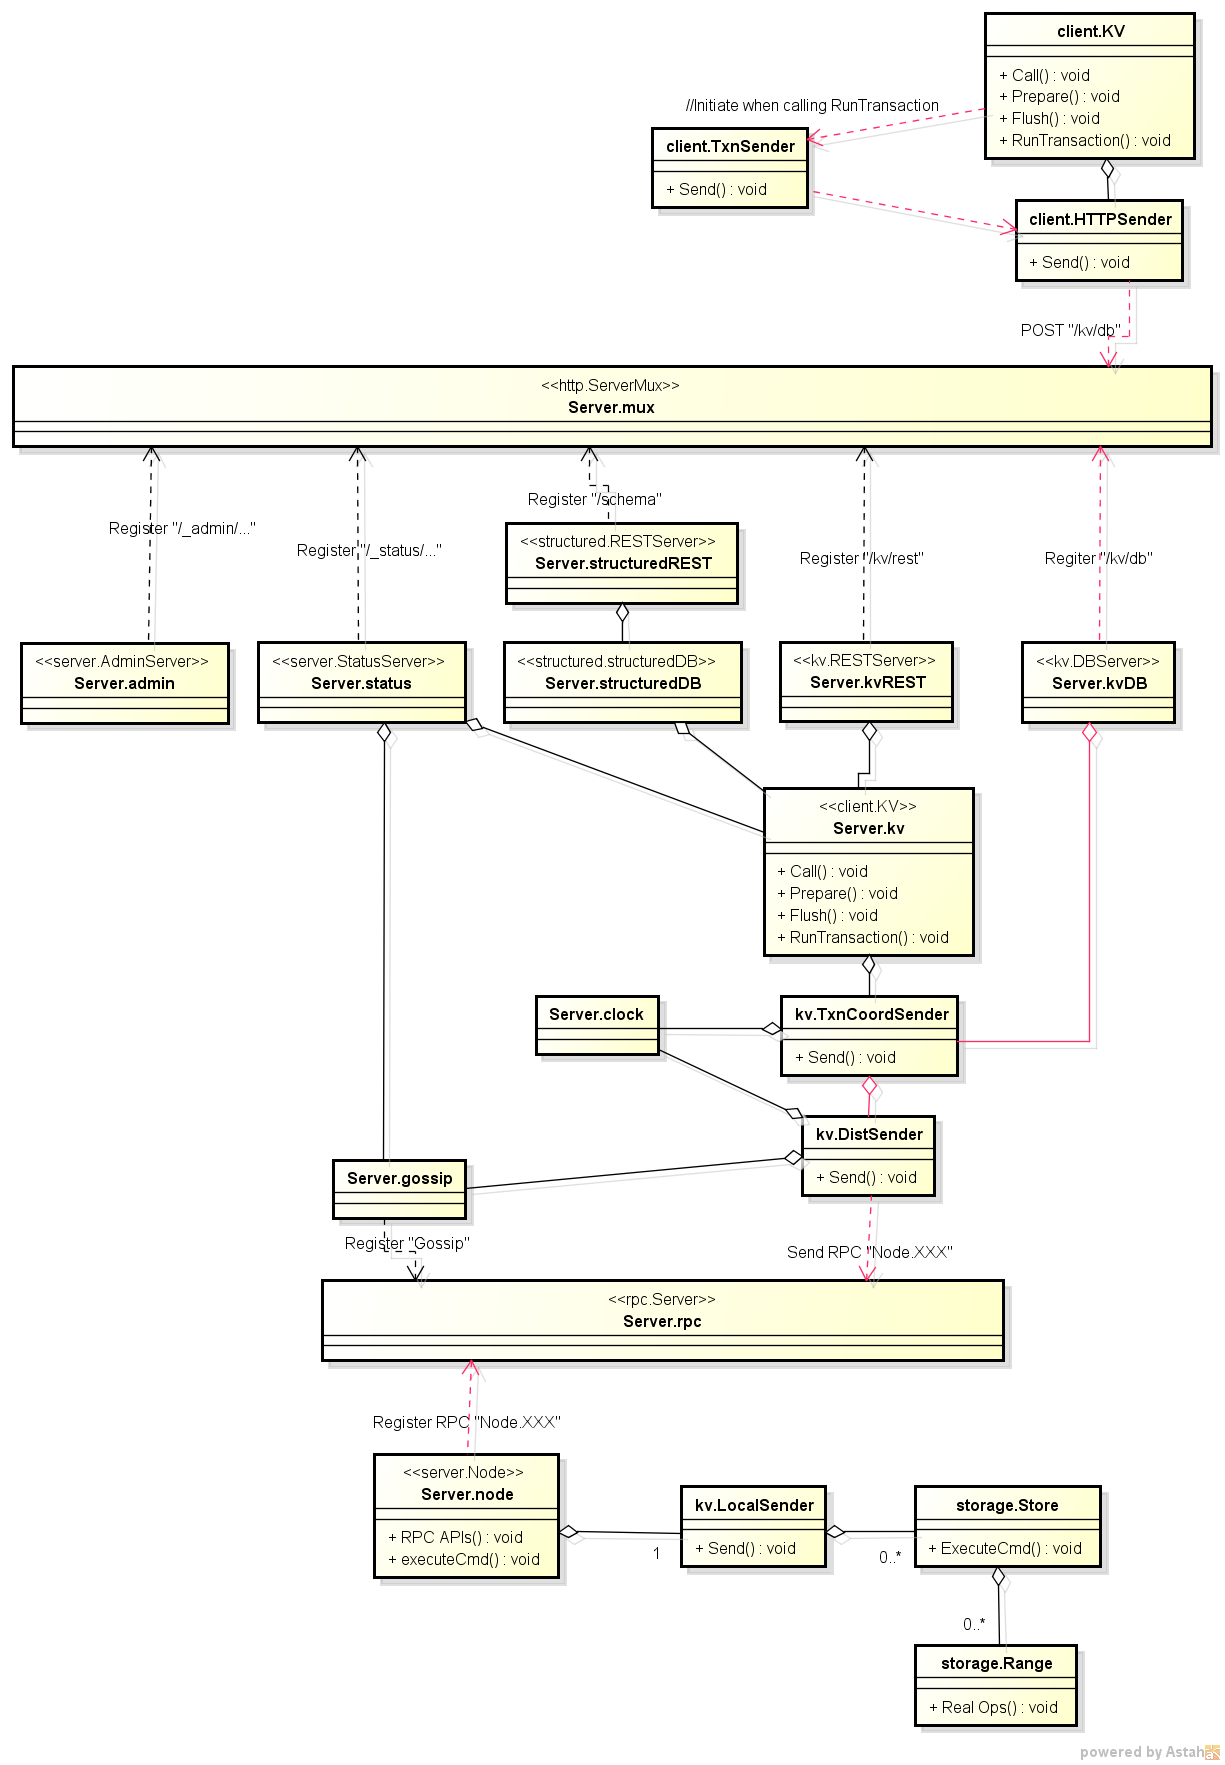
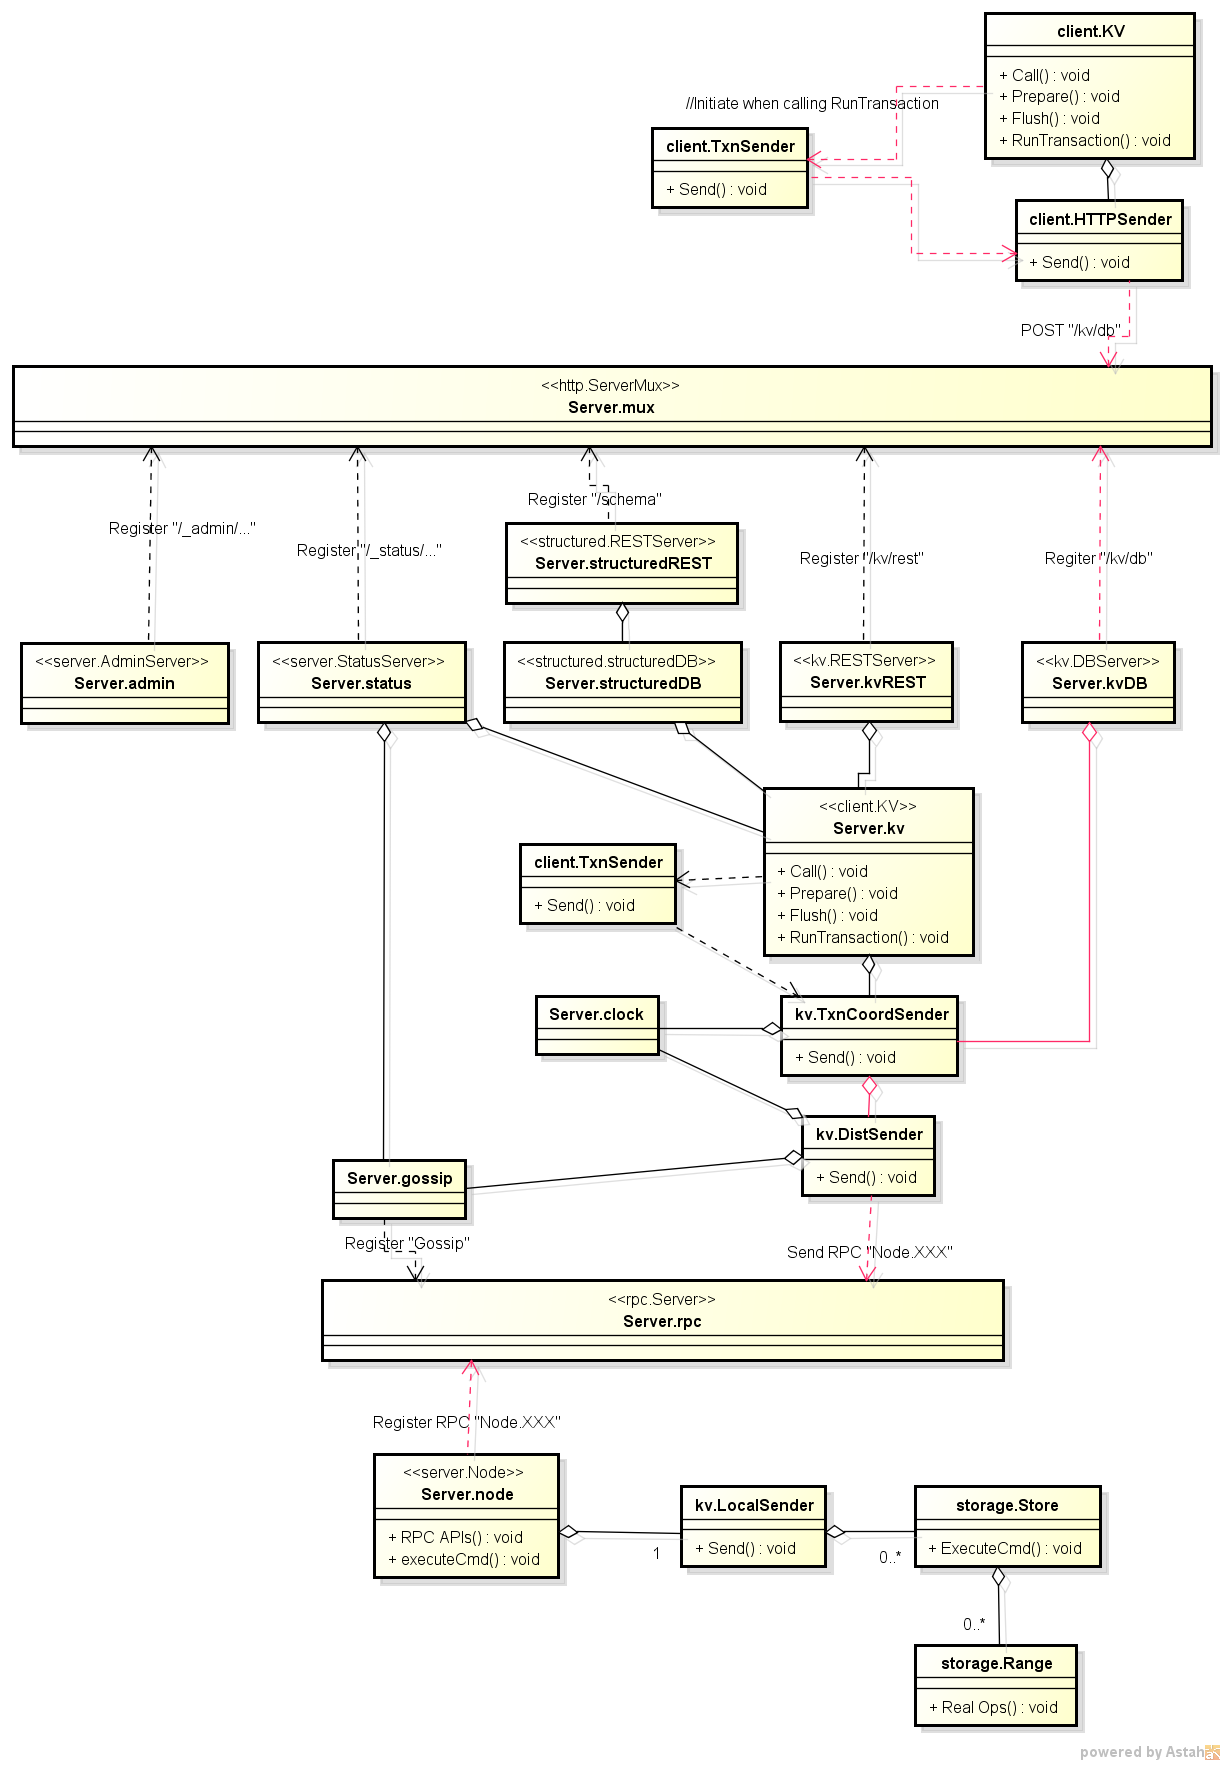
Add for client.KV

diff --git a/_posts/2015-04-04-cockroach-server-arch.md b/_posts/2015-04-04-cockroach-server-arch.md
@@ -18,4 +18,6 @@ tags: [Cockroach]
 	* 在客户端使用时，使用HTTPSender进行初始化
 	* 主要的外部方法有Call、Prepare、Flush、RunTransaction四个
 	* 另外，GetI和GetProto均会调用getInternal获取Key的值，而GetI随后使用Gob进行解码，GetProto使用PB进行解码。PutI、PutProto和putInternal同理。PrepareProto会使用PB编码Value，在调用kv.Prepare将其放入Prepare队列中。
-	* 
+	* 在服务端使用时，使用TxnCoordSender进行初始化，负责对接上层的kvREST、Structure、Status等外部HTTP接口。
+	* 此外Range在AdminSplit、AdminMerge、ChangeReplicas时，会使用服务端的client.KV实例
+	
